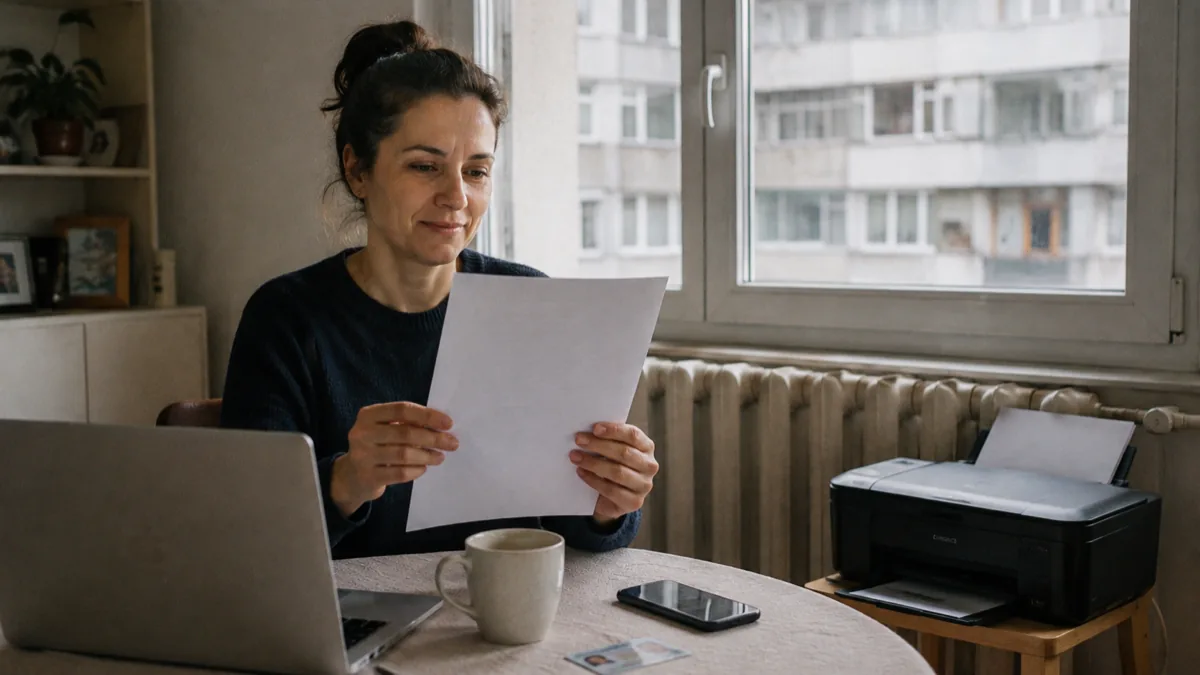
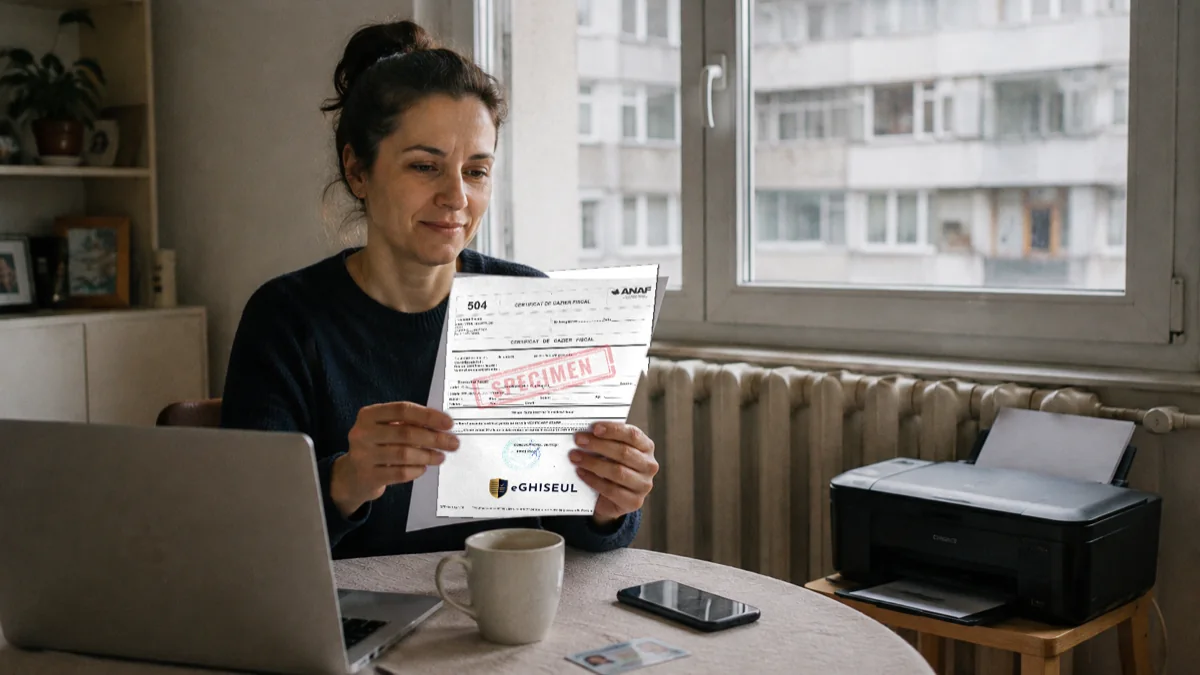
feat(seo): specimen ANAF real compus in imaginea de la cazier fiscal
Hartia din mana era goala; acum e specimenul real de cazier fiscal
(public/images/specimens/cazier-fiscal.png), compus cu transformare de
perspectiva peste foaia din poza, cu masca de hartie ca sa nu acopere degetele.

Changed region(s): [[0.3392, 0.3733, 0.555, 0.7778]]

diff --git a/src/app/cazier-fiscal-persoana-fizica/page.tsx b/src/app/cazier-fiscal-persoana-fizica/page.tsx
@@ -31,7 +31,7 @@ export default function Page() {
       dateModified={DATE_MODIFIED}
       publishedLabel="august 2026"
       updatedLabel="7 august 2026"
-      imageAlt="Femeie citind acasă un certificat proaspăt tipărit, cu laptopul și imprimanta pe masă — cazierul fiscal obținut online, fără drum la ANAF"
+      imageAlt="Femeie citind acasă certificatul de cazier fiscal emis de ANAF, proaspăt tipărit, cu laptopul și imprimanta pe masă"
       relatedServices={[
         {
           href: '/servicii/cazier-fiscal-online/',
